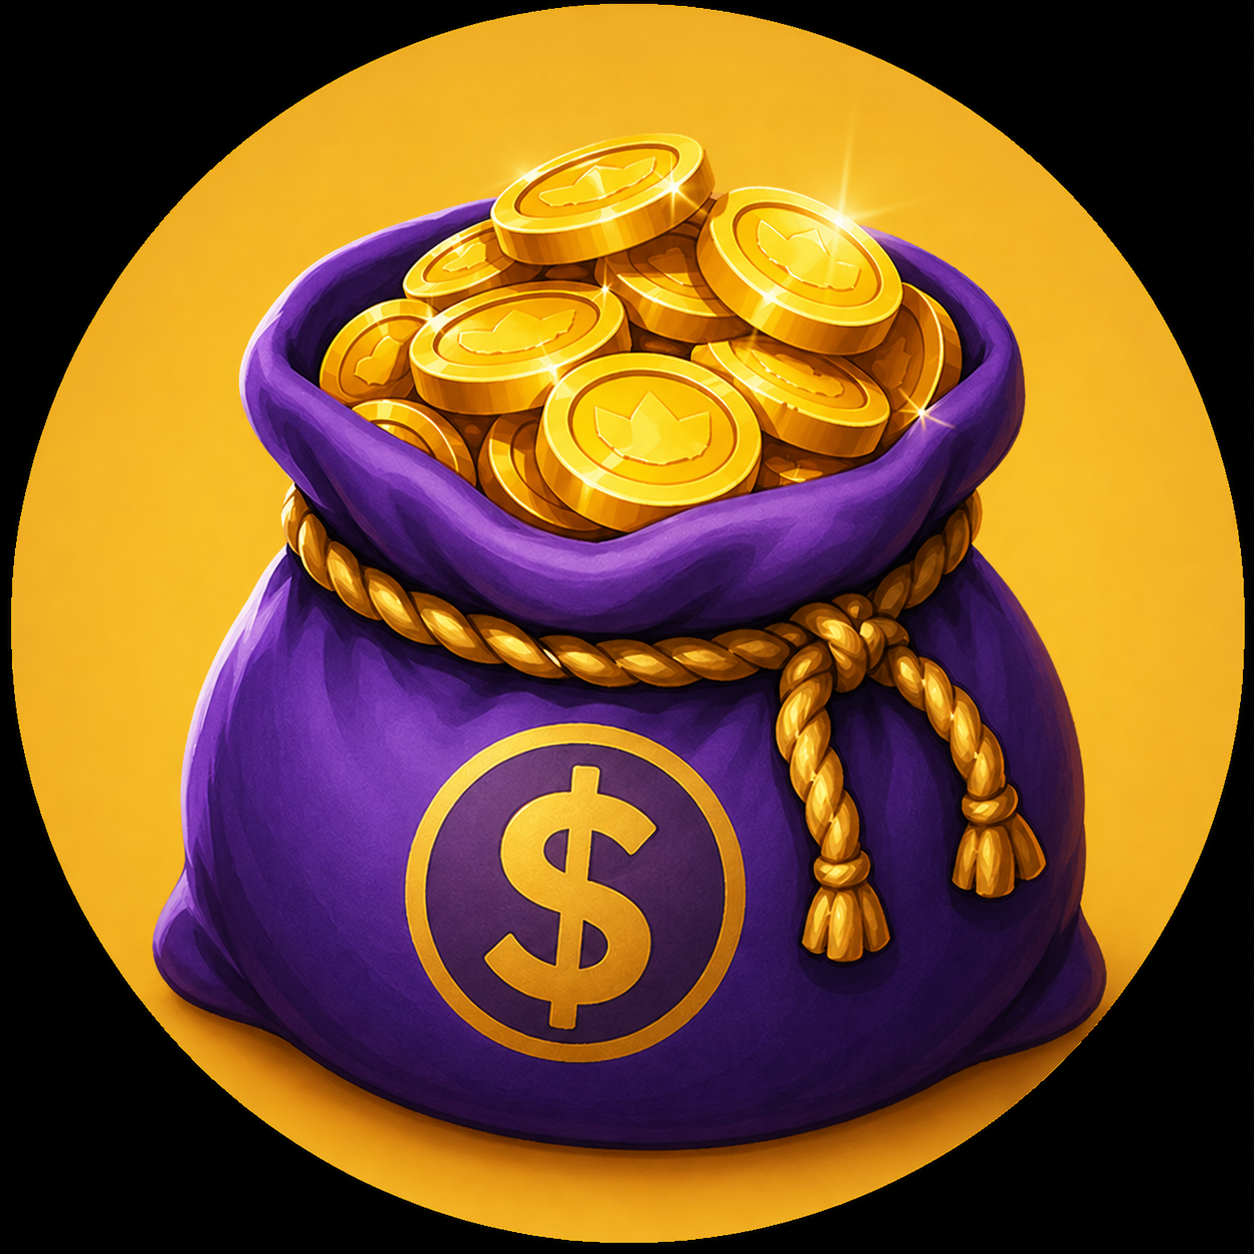
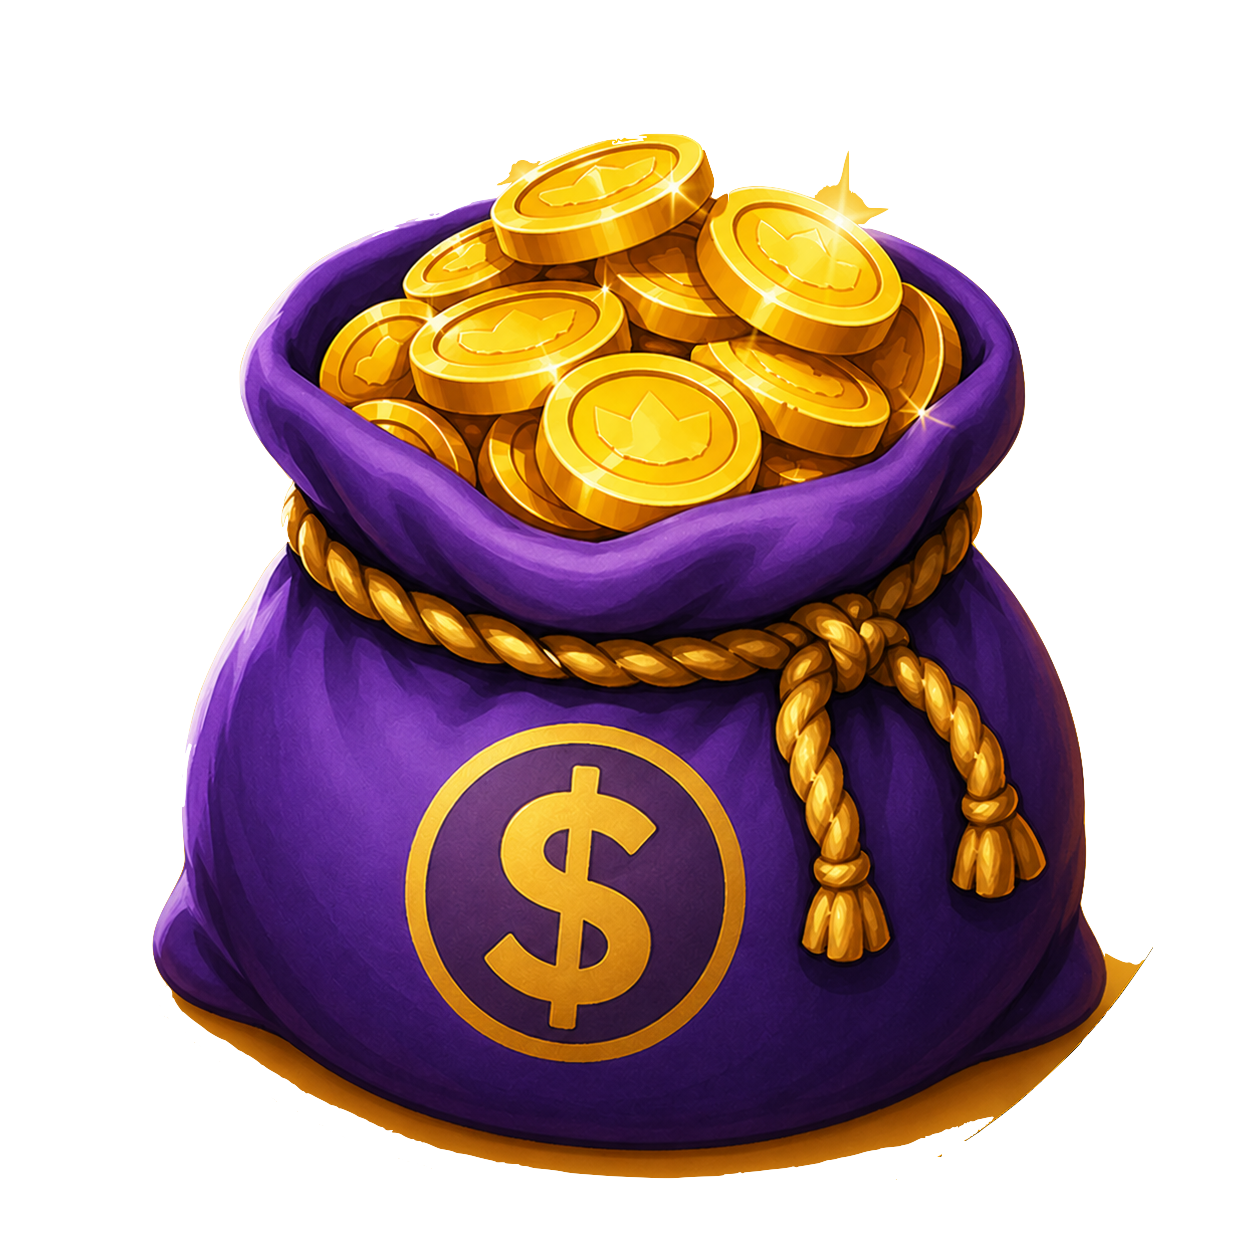
fix table colors and add bags of different colors and remove unused classes and arguments

diff --git a/templates/scores copy.html b/templates/scores copy.html
@@ -1,0 +1,116 @@
+{% macro scores(config) %}
+
+<style>
+
+    .rectangle {
+        width: 600px;          /* match tabletop width from earlier pages */
+        min-height: 350px;     /* ensures outer frame larger than content */
+        background: #ffffff;
+        padding: 60px 40px;
+        position: relative;
+    }
+
+    .timer-container {
+        position: fixed;
+        top: 20px;
+        right: 20px;
+        background: white;
+        padding: 12px 20px;
+        border-radius: 12px;
+        box-shadow: 0 4px 10px rgba(0,0,0,0.15);
+        font-size: 18px;
+        font-weight: bold;
+    }
+
+    .statement {
+        margin-bottom: 10px;
+    }
+
+    .mid_title {
+        font-weight: bold;
+        margin: 30px 0 15px 0;
+    }
+
+    .score-row {
+        display: flex;
+        justify-content: space-around;
+        margin-top: 10px;
+    }
+
+    .label {
+
+    }
+
+    .score {
+        margin-top: 10px;
+    }
+
+</style>
+
+<div class="rectangle">
+
+    <!-- CLOCK -->
+    <div class="timer-container" id="timer">00:00</div>
+
+    <!-- TEXT -->
+
+    <div class="statement">
+        {{ config.text }}
+    </div>
+
+    <div class="mid_title">
+        Accumulated scores
+    </div>
+
+    <!-- SCORES -->
+
+    <div class="score-row">
+
+        <div>
+            <div class="label">Me</div>
+            <div class="score">{{ config.my_score }}</div>
+        </div>
+
+        <div>
+            <div class="label">Partner</div>
+            <div class="score">{{ config.partner_score }}</div>
+        </div>
+
+    </div>
+
+</div>
+
+
+<script>
+    let timeRemaining = {{ config.timeoutSeconds }};
+
+    psynet.trial.onEvent("trialFinished", function() {
+        if (loop) {
+            psynet.trial.restart();
+        }
+    });
+
+    function updateTimer() {
+        let minutes = Math.floor(timeRemaining / 60);
+        let seconds = timeRemaining % 60;
+
+        seconds = seconds < 10 ? "0" + seconds : seconds;
+
+        document.getElementById("timer").textContent =
+            "Time left: " + minutes + ":" + seconds;
+
+        if (timeRemaining > 0) {
+            timeRemaining--;
+        } else {
+            clearInterval(timerInterval);
+            document.getElementById("timer").textContent = "Time's up!";
+            const timeoutAnswer = "{{ config.timeoutAnswer }}";
+            psynet.nextPage(timeoutAnswer);
+        }
+    }
+
+    updateTimer();
+    let timerInterval = setInterval(updateTimer, 1000);
+
+</script>
+{% endmacro %}

diff --git a/templates/outer_acceptance.html b/templates/outer_acceptance.html
@@ -13,6 +13,7 @@
 {%- endmacro %}
 
 {% macro outer_acceptance(config) %}
+{%- set bag_coins_n = ((config.round|default(1)|int - 1) % 5) + 1 -%}
 
 <style>
   body {
@@ -153,7 +154,7 @@
     left: 150px;
     width: 400px;
     height: 200px;
-    background: #8d8570;
+    background: #d5c39b;
     clip-path: polygon(10% 0%, 90% 0%, 100% 100%, 0% 100%);
   }
 
@@ -173,7 +174,7 @@
     user-select: none;
     background-size: cover;
     background-position: center;
-    background-image: url("../static/heap.png");
+    background-image: url("../static/bag_of_coins_{{ bag_coins_n }}.png");
   }
 
   .coin:active {

diff --git a/templates/outer_waiting_page.html b/templates/outer_waiting_page.html
@@ -18,6 +18,8 @@
 
   {{ super() }}
 
+  {%- set bag_coins_n = ((round|default(1)|int - 1) % 5) + 1 -%}
+
 <style>
   body {
     font-family: sans-serif;
@@ -200,7 +202,7 @@
     left: 150px;
     width: 400px;
     height: 200px;
-    background: #8d8570;
+    background: #d5c39b;
     clip-path: polygon(10% 0%, 90% 0%, 100% 100%, 0% 100%);
   }
 
@@ -220,7 +222,7 @@
     user-select: none;
     background-size: cover;
     background-position: center;
-    background-image: url("../static/heap.png");
+    background-image: url("../static/bag_of_coins_{{ bag_coins_n }}.png");
   }
 
   .coin:active {

diff --git a/templates/outer_proposal.html b/templates/outer_proposal.html
@@ -13,6 +13,7 @@
 {%- endmacro %}
 
 {% macro outer_proposal(config) %}
+{%- set bag_coins_n = ((config.round|default(1)|int - 1) % 5) + 1 -%}
 
 <style>
   body {
@@ -172,7 +173,7 @@
     user-select: none;
     background-size: cover;
     background-position: center;
-    background-image: url("../static/bag_of_coins_1.png");
+    background-image: url("../static/bag_of_coins_{{ bag_coins_n }}.png");
   }
 
   .coin:active {

diff --git a/custom_front_end.py b/custom_front_end.py
@@ -21,55 +21,6 @@ logger = get_logger()
 # Custom prompts
 ###########################################
 
-class OuterPrompt(Prompt):
-    macro = ""
-    external_template = ""
-
-    def __init__(
-        self,
-        text:str,
-        proposal:str,
-        context:Dict[str, str],
-        time_estimate:int,
-        external_template:str,
-        round_:int,
-    ) -> None:
-        super().__init__()
-        self.text = text
-        self.proposal = proposal
-        self.coin_url = context["coin_url"]
-        self.generic_url = context["generic_url"]
-        self.plate_url = context["plate_url"]
-        self.timeout = time_estimate
-        self.macro = external_template.split(".")[0]
-        self.external_template = external_template
-        self.round = round_
-        self.num_rounds = NUMBER_OF_ROUNDS
-
-
-class InnerPrompt(OuterPrompt):
-
-    def __init__(
-        self,
-        text:str,
-        proposal:int,
-        endowment:int,
-        context:Dict[str, str],
-        time_estimate:int,
-        external_template:str,
-        round_:int,
-    ) -> None:
-        super().__init__(
-            text=text,
-            proposal=str(proposal),
-            context=context,
-            time_estimate=time_estimate,
-            external_template=external_template,
-            round_=round_,
-        )
-        self.endowment = endowment
-
-
 class TimeoutPrompt(Prompt):
 
     macro = "timeout"
@@ -113,6 +64,7 @@ class OuterProposalControl(Control):
         proposal: Union[str, None] = None,
         accumulated_score_me: int = 0,
         accumulated_score_partner: int = 0,
+        round_: Optional[int] = 1,
         show_next: bool = True,
     ) -> None:
         super().__init__()
@@ -122,6 +74,7 @@ class OuterProposalControl(Control):
         self.accumulated_score_partner = int(accumulated_score_partner)
         self.show_next = show_next
         self.proposal = proposal
+        self.round = round_
 
 
 class InnerProposalControl(Control):

diff --git a/nested_game_trial.py b/nested_game_trial.py
@@ -289,8 +289,8 @@ class NestedGameTrial(ChainTrial):
         if self.participant.current_trial.definition["outer_game"] == "ultimatum":
             # Determine if proposal was accepted
             for participant in participants:
-                accept_answer = variable_handler.get_value(participant, "outer_accept_answer")
-                if accept_answer is not None:
+                if not self.is_the_outer_leader(participant):
+                    accept_answer = variable_handler.get_value(participant, "outer_accept_answer")
                     break
 
         return accept_answer

diff --git a/experiment.py b/experiment.py
@@ -54,9 +54,6 @@ def get_start_nodes():
                 "transition": "random",  # constant, random, bid
             },
             context={
-                "coin_url": "static/coin_url.png",
-                "generic_url": "static/generic_url.png",
-                "plate_url": "static/plate_url.png",
                 "outer_waiting_page_path": "templates/outer_waiting_page.html",
                 "inner_waiting_page_path": "templates/inner_waiting_page.html",
             }

diff --git a/custom_pages.py b/custom_pages.py
@@ -180,7 +180,7 @@ class OuterAcceptancePage(ModularPage):
             round_=round_,
             num_rounds=NUMBER_OF_ROUNDS,
             text=Markup(
-            f"<h3>{recipient} the endowment</h3>"
+            f"<h3>{recipient} the bag of coins</h3>"
             f"<br>"
             f"<p>Do you accept this allocation?</p>"
         ))
